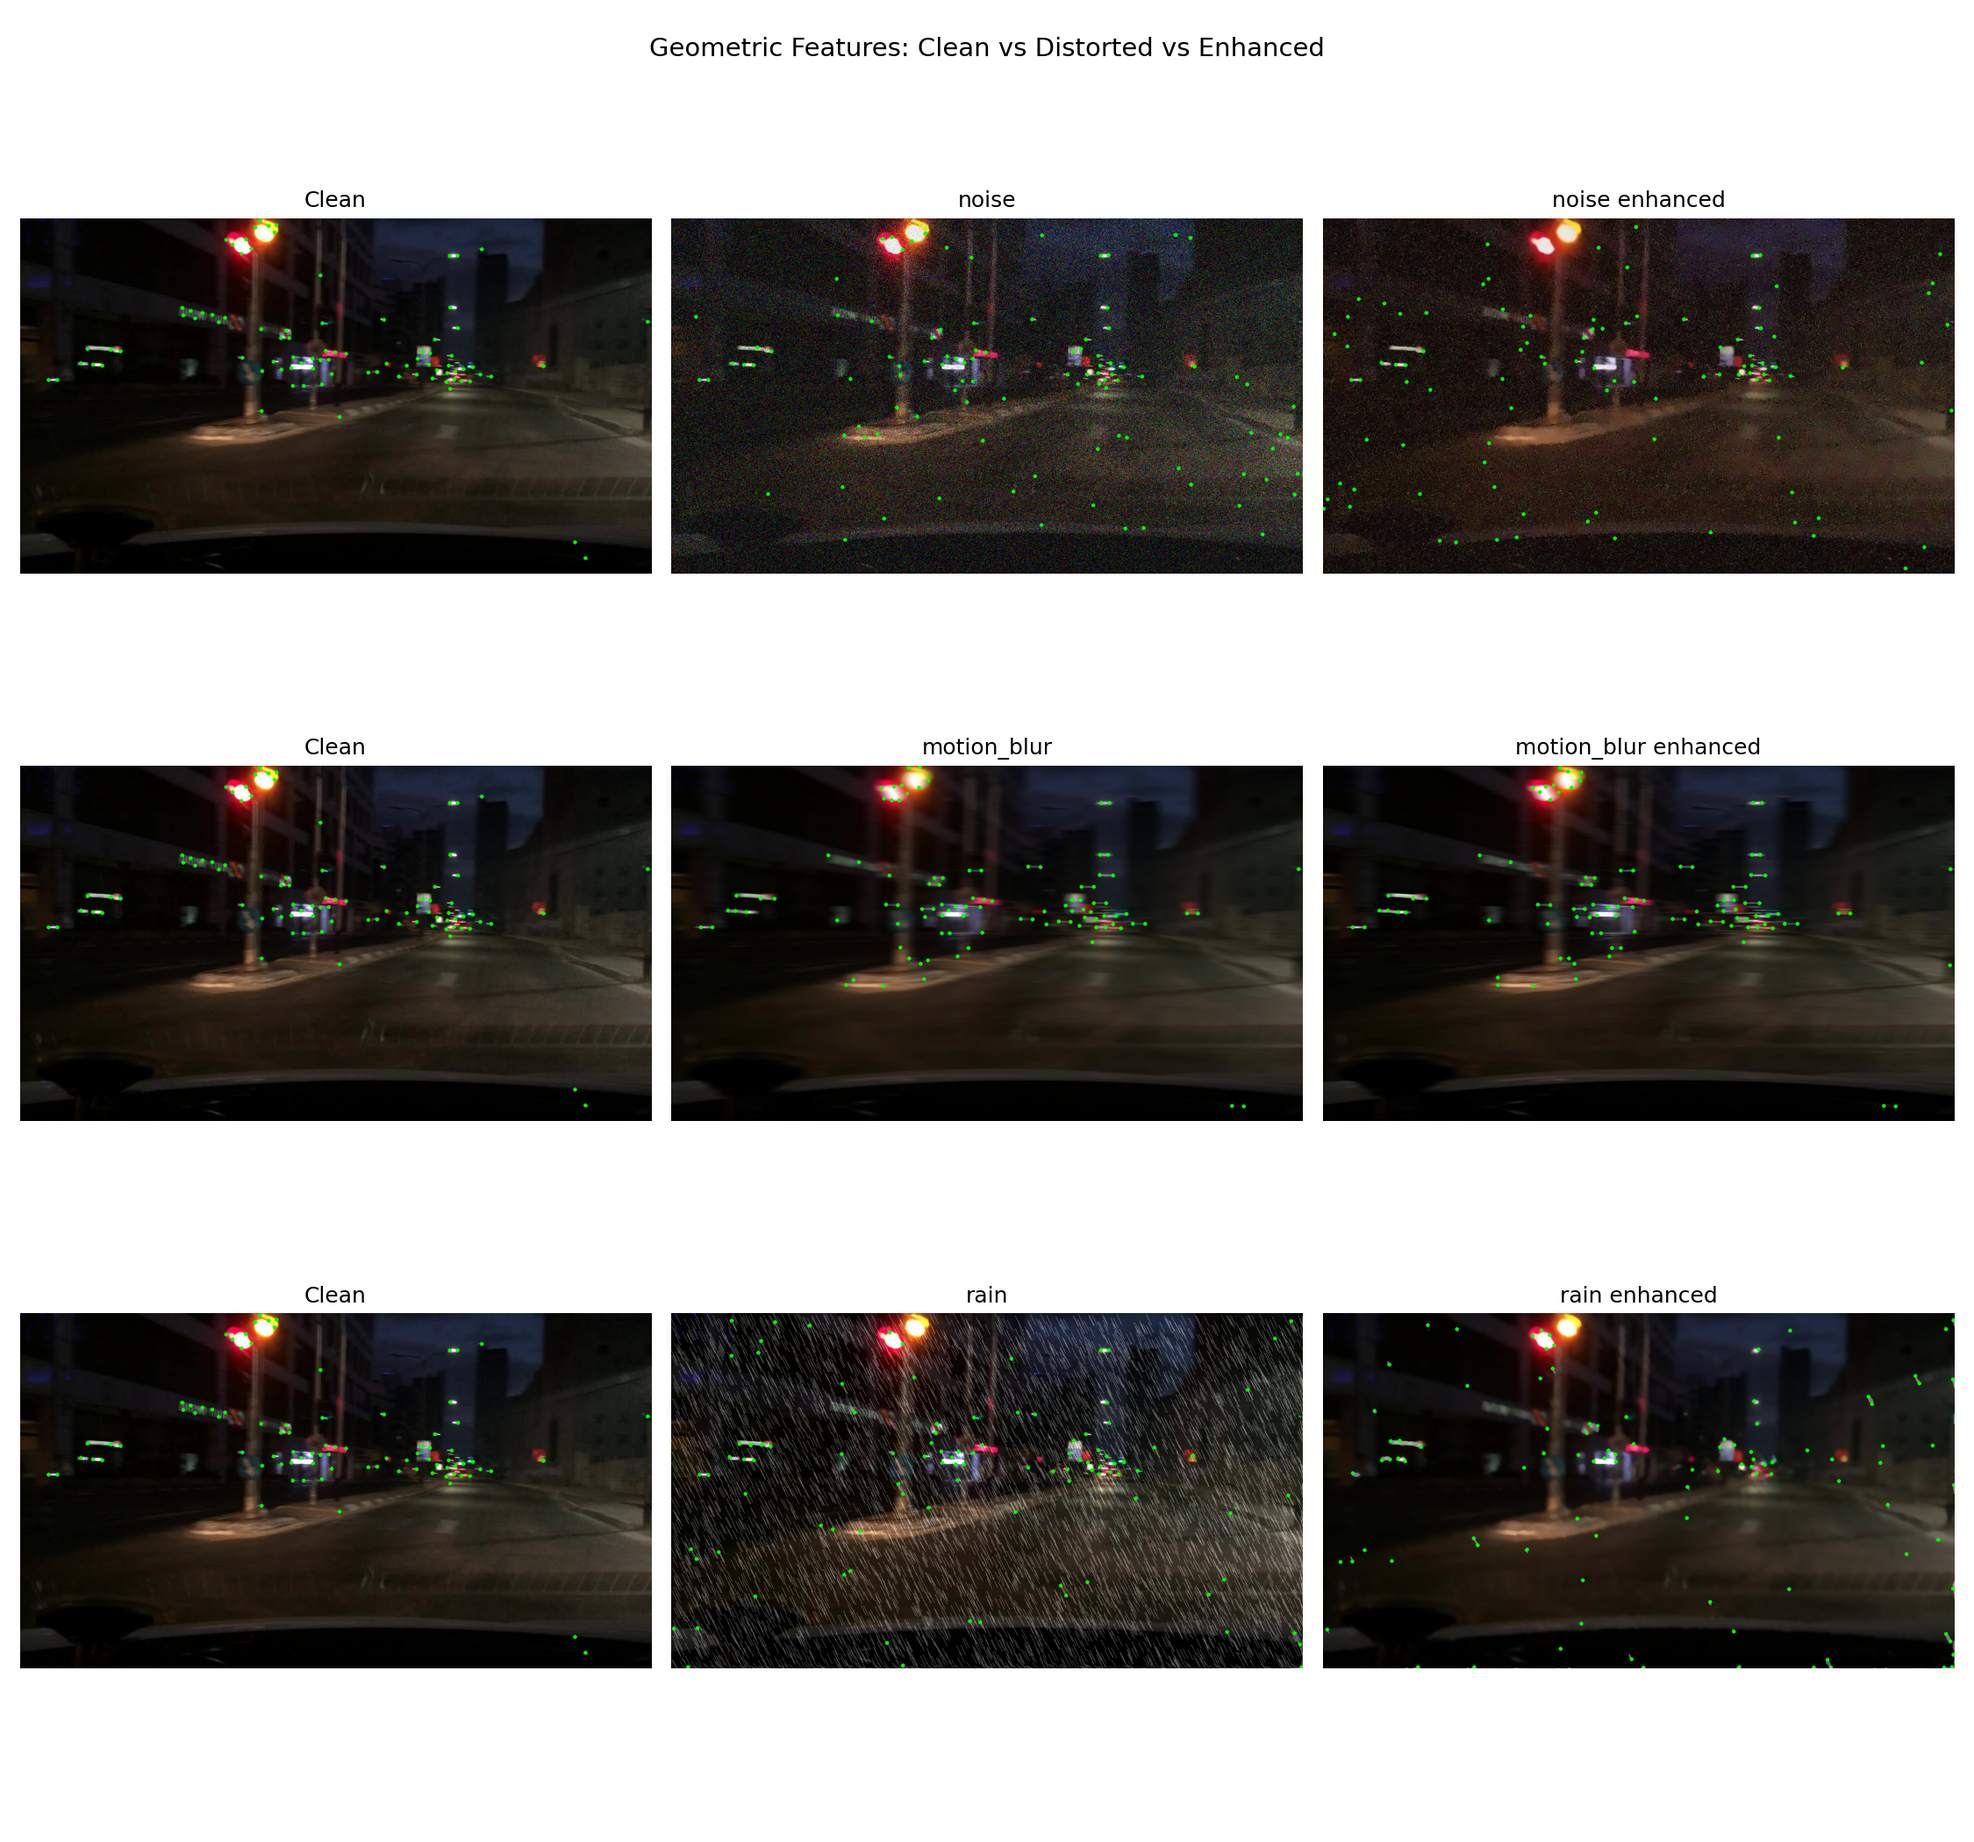
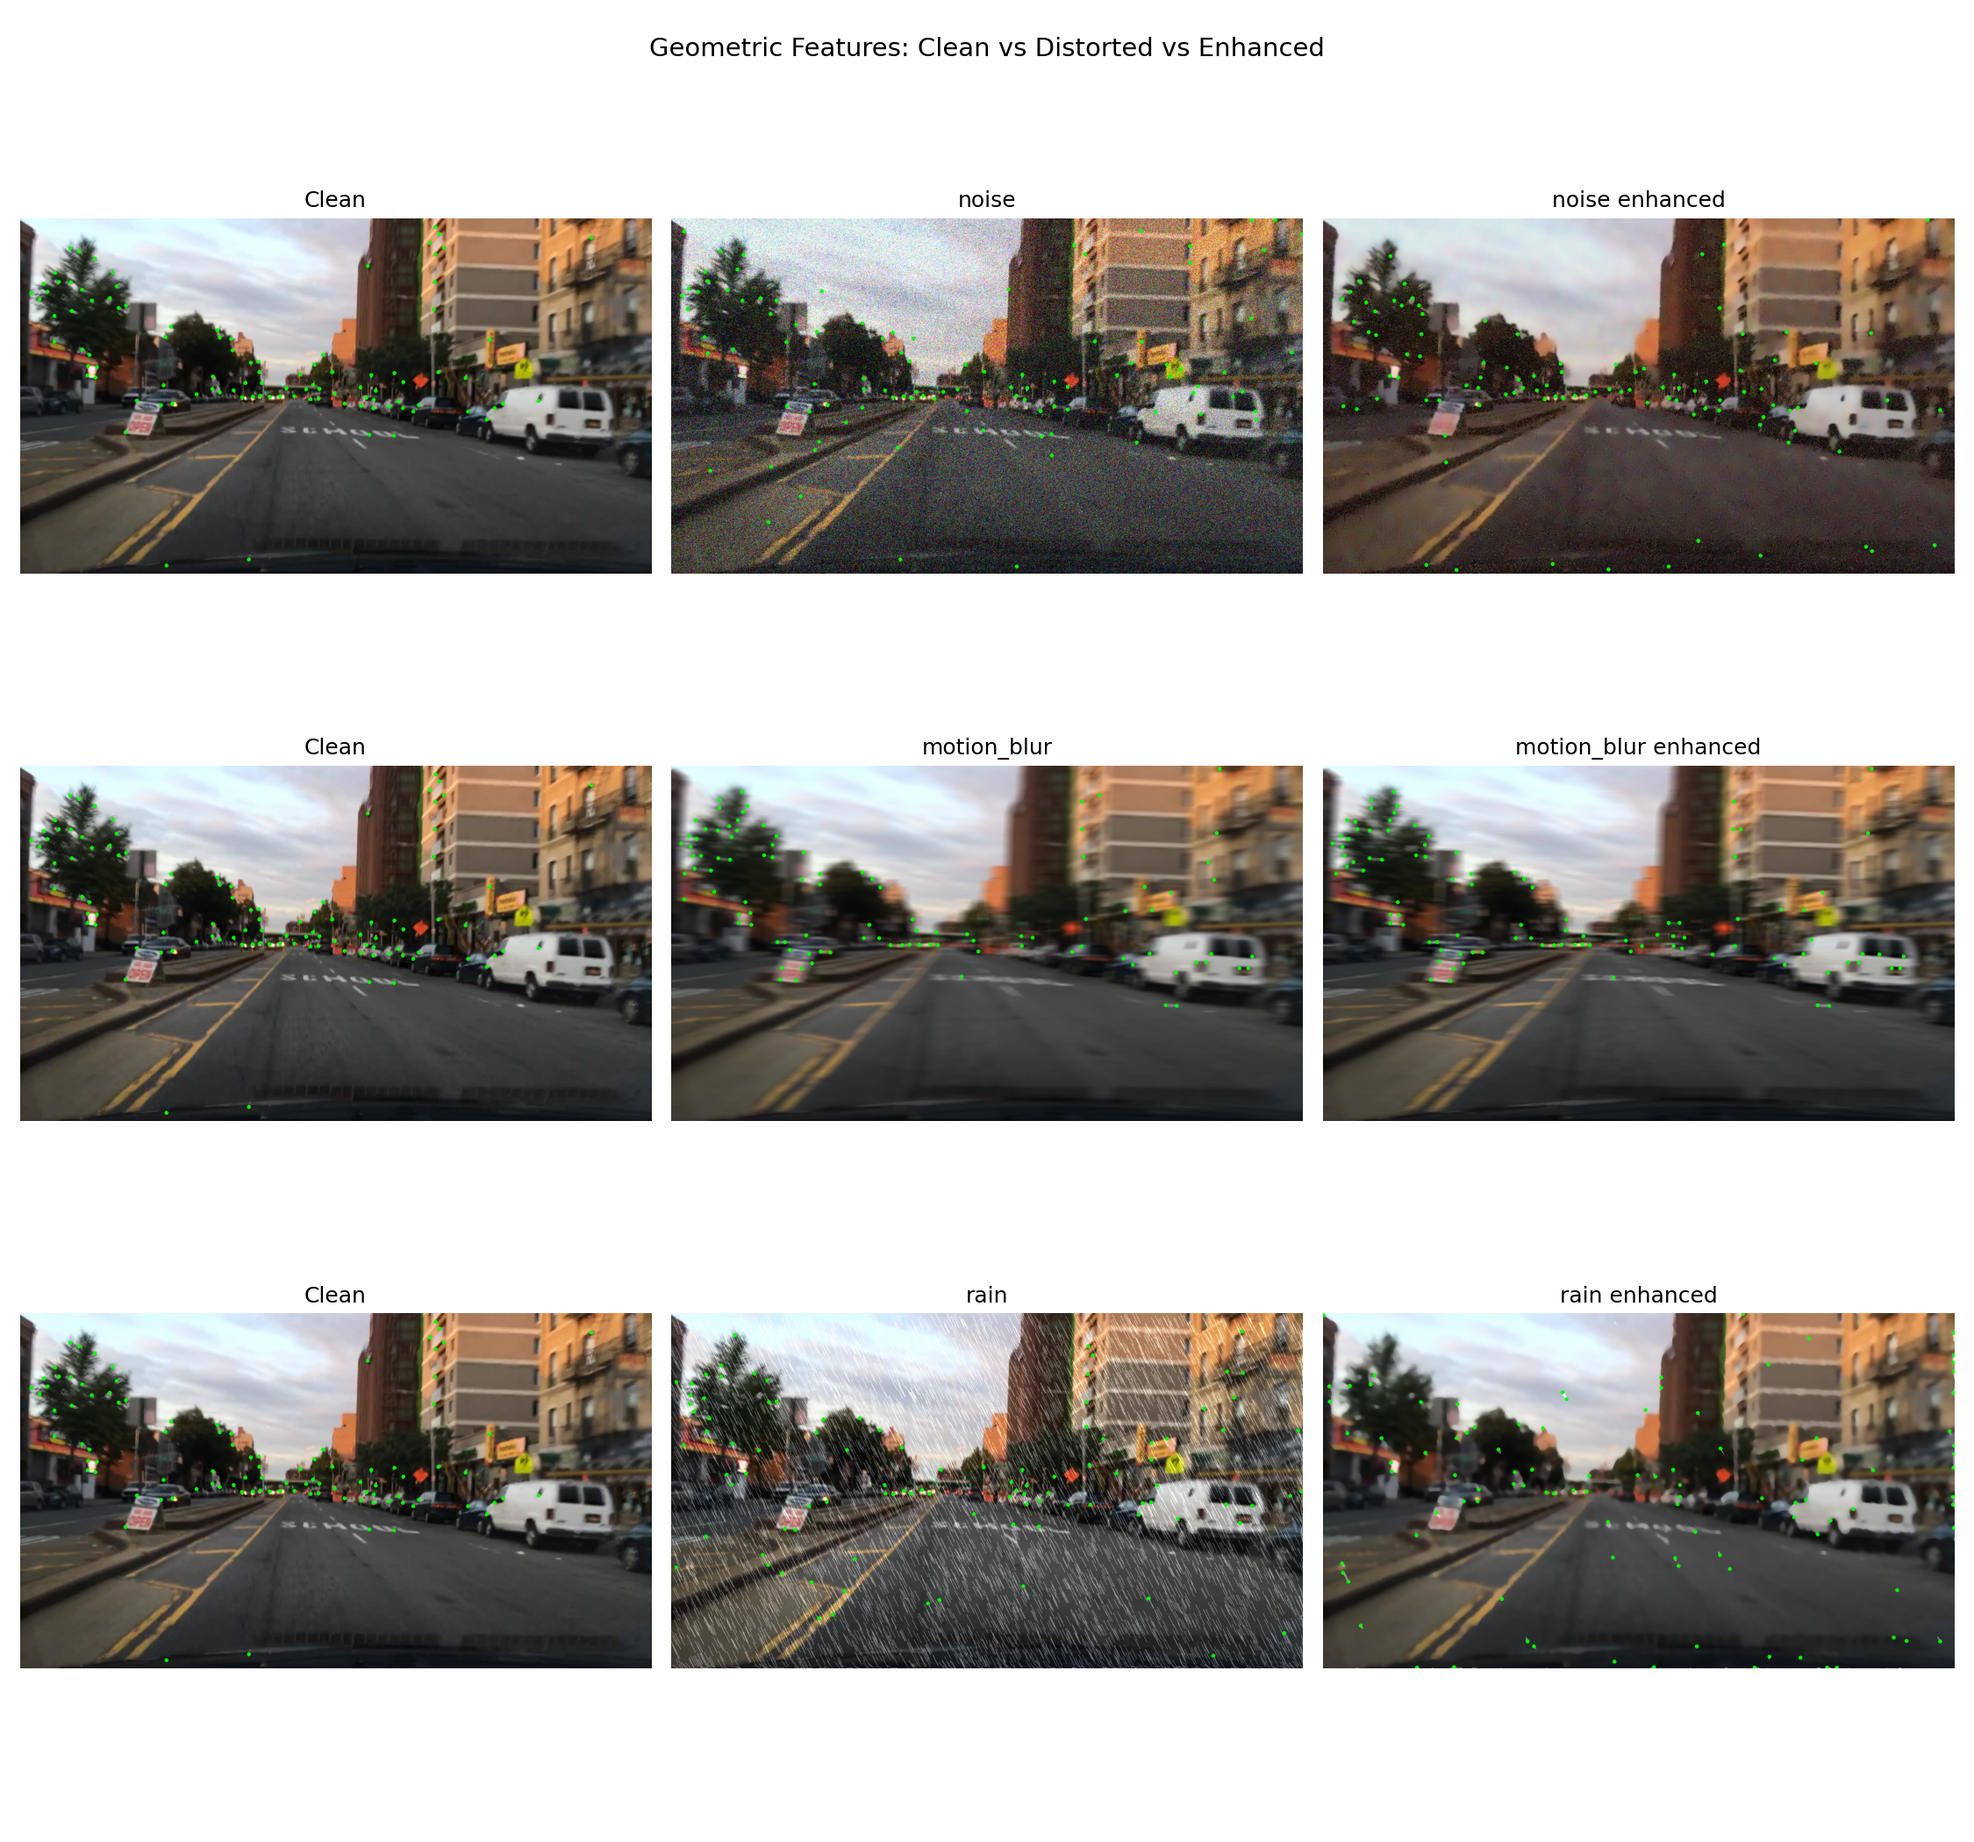
move to 100

diff --git a/geometric_features.py b/geometric_features.py
@@ -7,7 +7,7 @@ from enhancement import denoise, deblur, derain
 
 DATASET_DIR = "dataset"
 RESULTS_DIR = os.path.join("results", "geometric_features")
-NUM_EVAL = 20
+NUM_EVAL = 100
 
 DISTORTIONS = {
     "noise":       (add_noise,       denoise),
